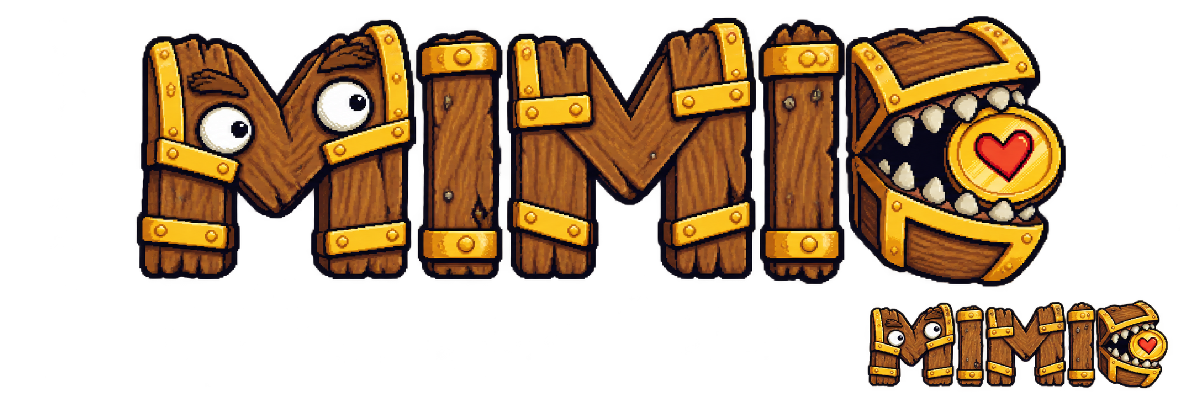
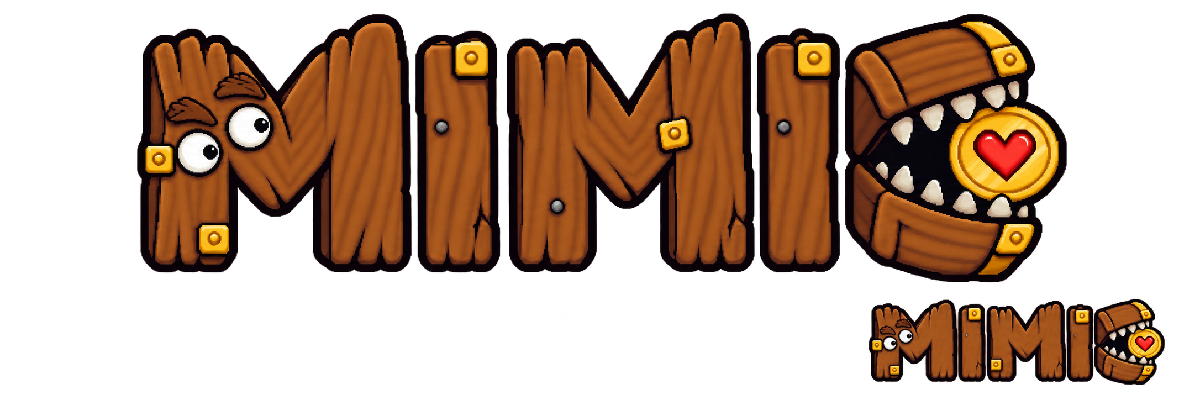
art(review): simplify wordmark metal details

Changed region(s): [[0.0925, 0.03, 0.8942, 0.72], [0.7092, 0.75, 0.9867, 0.99]]

diff --git a/.agents/devlog.md b/.agents/devlog.md
@@ -1206,3 +1206,14 @@
 - Added exact PNG signature/dimension/alpha/hash checks, immutable-source coverage, broken-image fallback checks, and motion hash verification.
 **Decisions:** Kept every sample under the review directory, left every family `awaiting-calibration`, and made no changes to production assets, runtime registries, pages, tokens, manifest, or service-worker policy. Image-generator canvases were deterministically normalized to the plan's exact review dimensions without changing the approved source assets.
[1 lines of base64/hex data omitted]
+
+## 2026-09-18 — Revise Gate A wordmark calibration
+
+**Task:** Revise the rejected Wordmark sample so metal details no longer damage distance or compact-size legibility.
+**Scope:** Wordmark review sample, review manifest and decision log, and four deterministic review screenshots.
+**What changed:**
+- Replaced heavy perimeter metal and repeated straps with wood-led letter silhouettes and sparse secondary join hardware.
+- Preserved the display/compact calibration sheet, transparent 1200 × 400 contract, first-`M` eyes, and final-`C` mouth/heart-coin identity.
+- Recorded the rejected original direction, updated the exact sample hash, and regenerated only the four review-page screenshot baselines.
+**Decisions:** The revised sample remains `awaiting-calibration`; no complete-family generation or runtime integration is authorized.
+**Known gaps / follow-ups:** Gate A still needs explicit approval of the revised Wordmark, including eye placement and the final `C` silhouette at compact size. Focused contract tests passed 10/10 and Playwright passed 16/16 across 320/390/768/1440.

diff --git a/docs/design/assets/reviews/2026-09-18-page-visual-phase-1/decision-log.md b/docs/design/assets/reviews/2026-09-18-page-visual-phase-1/decision-log.md
@@ -13,7 +13,7 @@ Changing a sample changes its hash, invalidates any prior approval, and returns 
 
 | Family | Sample SHA-256 | Decision | Requested correction | Decision date |
 |---|---|---|---|---|
-| wordmark |  |  |  |  |
[1 lines of base64/hex data omitted]
 | icons |  |  |  |  |
 | mimiku-states |  |  |  |  |
 | avatar-classes |  |  |  |  |
